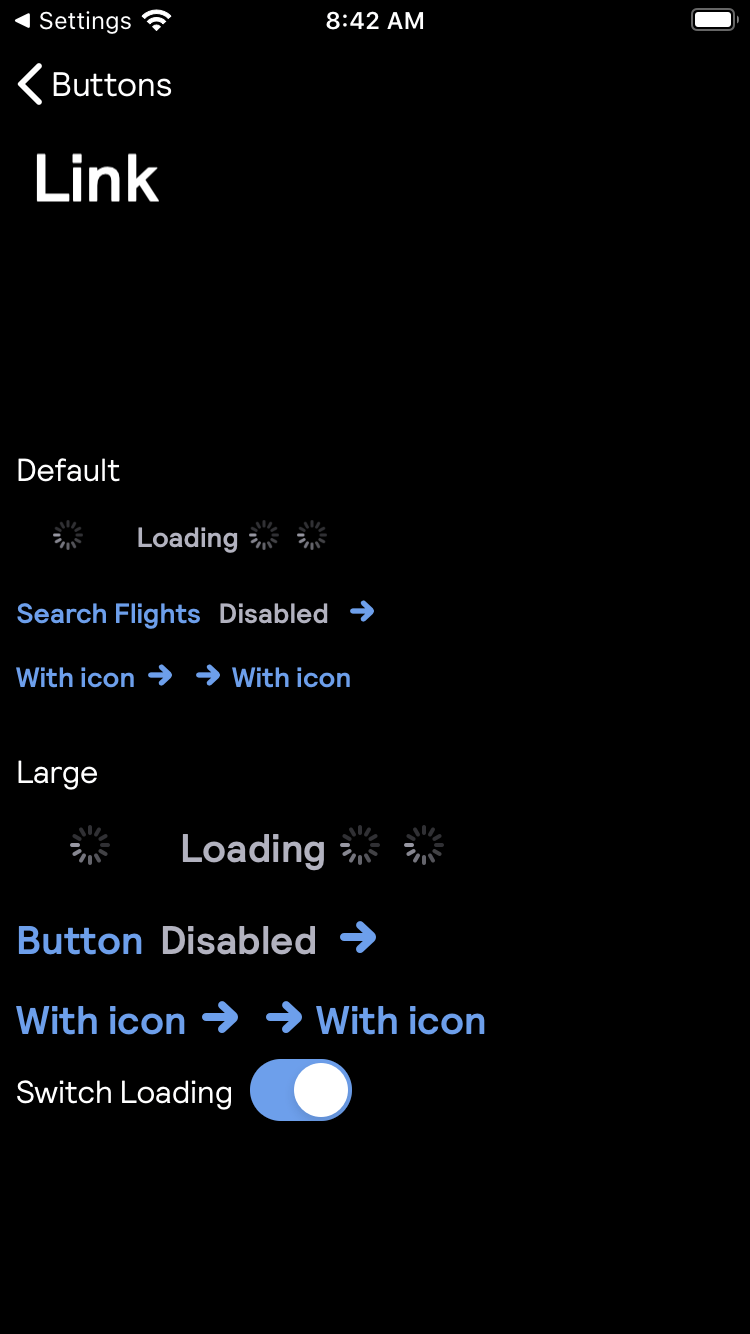
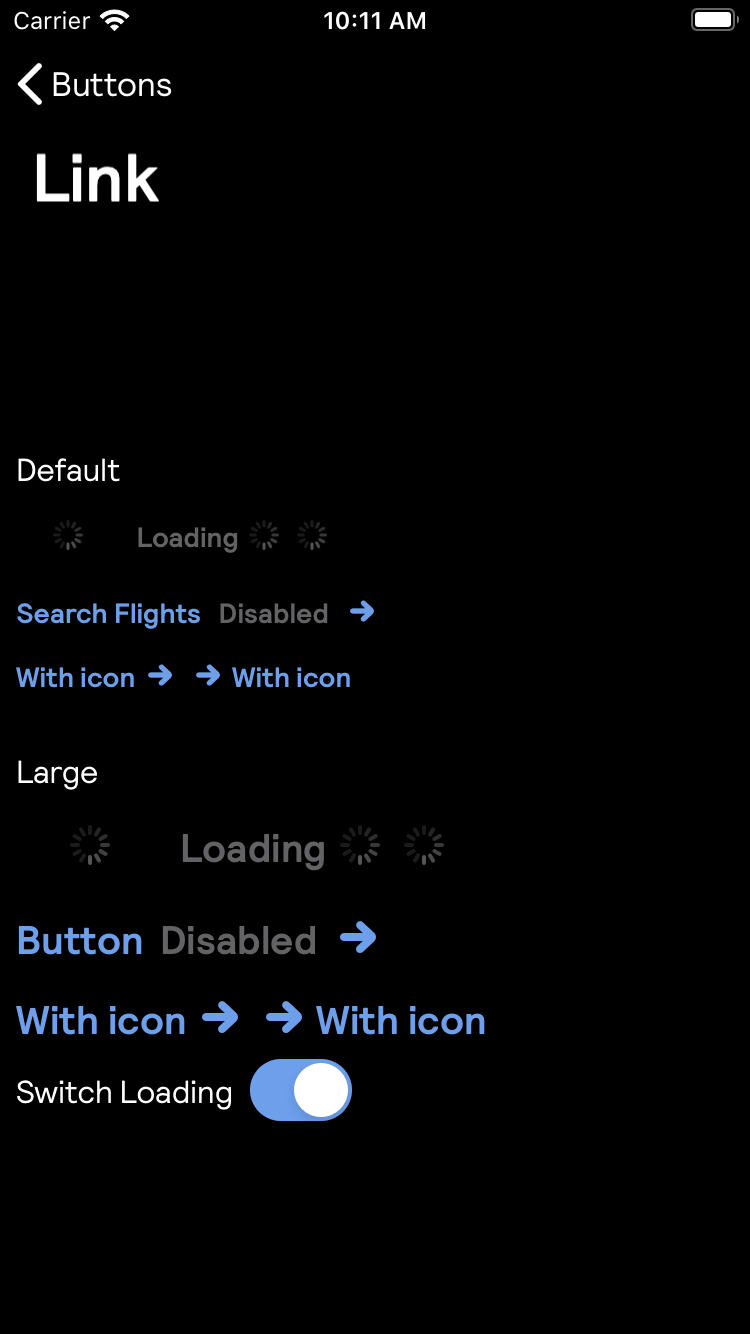
[BPK-3285] Disabled link content colour fix

diff --git a/Backpack/Button/Classes/BPKButton.m b/Backpack/Button/Classes/BPKButton.m
@@ -54,7 +54,6 @@ NS_ASSUME_NONNULL_BEGIN
 @property(nonatomic, class, readonly) UIColor *highlightedBlue;
 @property(nonatomic, class, readonly) UIColor *highlightedRed;
 @property(nonatomic, class, readonly) CGFloat buttonTitleIconSpacing;
-@property(nonatomic, readonly) UIColor *disabledLinkColor;
 @property(nonatomic, readonly) UIColor *disabledBackgroundColor;
 @property(nonatomic, readonly) UIColor *disabledContentColor;
 @property(nonatomic, readonly) UIColor *boxyBackgroundColor;
@@ -552,7 +551,7 @@ NS_ASSUME_NONNULL_BEGIN
         case BPKButtonStyleDestructive:
             return [self class].disabledContentColor;
         case BPKButtonStyleLink:
-            return [self class].disabledLinkColor;
+            return [self class].disabledContentColor;
         case BPKButtonStyleOutline:
             return BPKColor.skyGrayTint04;
         default:
@@ -853,10 +852,6 @@ NS_ASSUME_NONNULL_BEGIN
 
 + (UIColor *)disabledContentColor {
     return [BPKColor dynamicColorWithLightVariant:BPKColor.skyGrayTint04 darkVariant:BPKColor.blackTint03];
-}
-
-+ (UIColor *)disabledLinkColor {
-    return BPKColor.skyGrayTint04;
 }
 
 + (UIColor *)disabledBorderColor {

diff --git a/UNRELEASED.md b/UNRELEASED.md
@@ -1,5 +1,8 @@
 # Unreleased
 > Place your changes below this line.
+**Fixed:**
+ - Backpack/Button:
+   - Fixed the disabled link colour in Dark Mode.
 
 ## How to write a good changelog entry
 1. Add 'Breaking', 'Added' or 'Fixed' in bold depending on if the change will be major, minor or patch according to [semver](semver.org).
